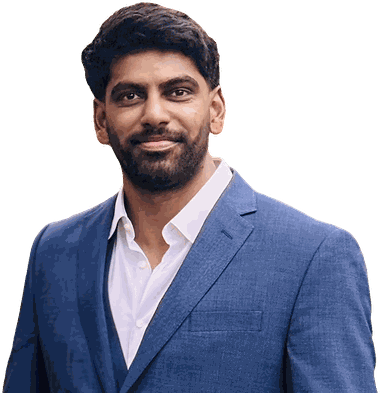
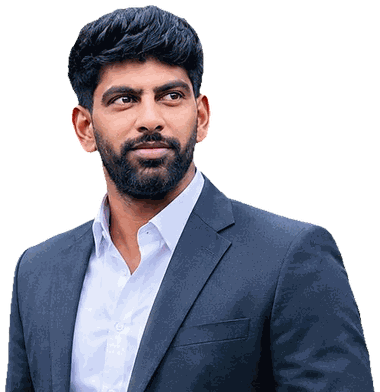
Replace the landing portrait with the full-length studio shot (#183)
* Replace the landing portrait with the full-length studio shot

The new master is a standing shot, not a headshot, so it cannot go through
the same pipeline unchanged - two things had to move.

It gets its own master. `generate_profile_cutout.py` read
`assets/profile-pic-master.jpg`, the same file `generate_profile_pics.py`
crops the circular avatar from, and the two now want opposite framings: the
avatar is a circle filled by a face, the landing portrait is a bust in front
of a painted panel. Pointing the cutout at `assets/profile-portrait-master.jpg`
keeps the JSON-LD `Person` image on the headshot it was cropped for, instead
of quartering its resolution to serve a frame it was never shot for.

It gets a crop. `SOURCE_CROP_BOX` cuts the bust out of the standing figure
before segmentation - before, so birefnet spends its 1024px input on the
hairline rather than on the trouser legs. The cut is placed so the existing
trim still lands on a matte 0.967 as wide as it is tall, which is the ratio
`.home-portrait::before` and the img width/height pair are both written
against; the CSS is untouched as a result.

The cost is resolution, and it is real: the bust window is ~500px of a 1254px
master, against the 1111px the frame-filling headshot carried. The ladder
drops to 380w + 497w rather than upscaling into the old filenames, so a 2x
desktop is served 497 where it would take ~1140. A higher-resolution original
of this shot is the only thing that recovers it.
[…]

diff --git a/frontend/index.html b/frontend/index.html
@@ -164,11 +164,11 @@
   </script>
   <!-- The landing portrait, and the LCP element. imagesrcset/imagesizes repeat
        the <picture> below verbatim: a bare href preloads the 380w file while a
-       2x screen then goes on to fetch the 760w or 1111w one, so the preload
-       costs a round trip instead of saving one. -->
+       wider viewport then goes on to fetch the 497w one, so the preload costs a
+       round trip instead of saving one. -->
   <link rel="preload" href="profile-cutout-380.webp" as="image" type="image/webp"
-    imagesrcset="profile-cutout-380.webp 380w, profile-cutout.webp 760w, profile-cutout-1111.webp 1111w"
-    imagesizes="(width <= 900px) min(72vw, 450px), clamp(375px, 40.5vw, 570px)" />
+    imagesrcset="profile-cutout-380.webp 380w, profile-cutout.webp 497w"
+    imagesizes="(width <= 900px) min(72vw, 450px), clamp(375px, 40.5vw, 450px)" />
   <link rel="preload" href="styles.css" as="style" />
   <link rel="stylesheet" href="styles.css" />
   <link rel="stylesheet" href="./auth-modal.css" />
@@ -522,22 +522,27 @@
                an organic accent swash the silhouette stands in front of - but
                nothing crops the image to it; see the note on that rule.
                The PNG fallback is the `img` src because JPEG cannot carry an
-               alpha channel; the width/height pair is the intrinsic ratio of
-               the sources, and styles.css sets the rendered width. -->
+               alpha channel; the width/height pair is the intrinsic size of
+               the sources, and styles.css sets the rendered width.
+
+               Two widths, topping out at 497 - the master is a full-length
+               shot and the bust window generate_profile_cutout.py crops from
+               it is only that wide, so the ladder ends where the pixels do.
+               The 450px cap in styles.css is set against that: it keeps 1x a
+               downscale, though 2x still asks for ~900w. See the VARIANTS
+               note in that script. -->
           <div class="home-portrait">
             <picture>
               <source
                 srcset="
                   profile-cutout-380.webp 380w,
-                  profile-cutout.webp 760w,
-                  profile-cutout-1111.webp 1111w"
-                sizes="(width <= 900px) min(72vw, 450px), clamp(375px, 40.5vw, 570px)" type="image/webp" />
+                  profile-cutout.webp 497w"
+                sizes="(width <= 900px) min(72vw, 450px), clamp(375px, 40.5vw, 450px)" type="image/webp" />
               <img src="profile-cutout-380.png" srcset="
                   profile-cutout-380.png 380w,
-                  profile-cutout.png 760w,
-                  profile-cutout-1111.png 1111w"
-                sizes="(width <= 900px) min(72vw, 450px), clamp(375px, 40.5vw, 570px)"
-                alt="" class="home-portrait-img" width="760" height="786" fetchpriority="high"
+                  profile-cutout.png 497w"
+                sizes="(width <= 900px) min(72vw, 450px), clamp(375px, 40.5vw, 450px)"
+                alt="" class="home-portrait-img" width="497" height="513" fetchpriority="high"
                 loading="eager" />
             </picture>
           </div>

diff --git a/frontend/styles.css b/frontend/styles.css
@@ -2537,10 +2537,29 @@ body:has(main > #ai.active) .chat-widget:not(.is-visible) {
      Half again as wide as that step: the two-column landing view has the
      vertical room for it at every desktop height tested down to 700px, and a
      cutout this size is the page's subject rather than an illustration beside
-     the name. 570px against the intro column's ~390px is the whole point -
+     the name. The cap against the intro column's ~390px is the whole point -
      the portrait leads and the type answers it. The phone cap below does NOT
-     scale with this; see the note there. */
-  width: clamp(375px, 40.5vw, 570px);
+     scale with this; see the note there.
+
+     ── Why the cap is 450 and not 570 ──
+     It is the source, not the layout. The cap was 570px while the master was
+     a frame-filling headshot that mattes to 1111px; the master is a
+     full-length shot now, and the bust `generate_profile_cutout.py` crops out
+     of it is 497px wide - all there is. At 570 the browser upscaled on every
+     screen, including 1x. 450 puts the widest render back UNDER the file, so
+     1x is a true downscale again and every fractional DPR asks for less than
+     it did.
+
+     It does not make the portrait retina-sharp, and no cap here can: 2x at
+     450px still wants 900w against 497. Only a higher-resolution original of
+     the master fixes that. What this buys is the 1x case and a smaller
+     deficit everywhere else.
+
+     450 is also now the ONE ceiling the portrait has anywhere - the phone
+     block below already capped at `min(72vw, 450px)`, so the two agree by
+     arithmetic rather than by coincidence. The portrait still leads at this
+     size; it leads by less. */
+  width: clamp(375px, 40.5vw, 450px);
 }
 
 /* ── No wash behind the silhouette ──

diff --git a/scripts/generate_profile_cutout.py b/scripts/generate_profile_cutout.py
@@ -1,26 +1,34 @@
 """
 Profile Cutout Generator Script
 
-Builds the free-form landing portrait: the same master headshot as
-`generate_profile_pics.py`, but background-removed so the page's own gradient
-and plexus canvas show through the silhouette instead of a photographic square
-clipped to a circle.
+Builds the free-form landing portrait: a studio shot background-removed so the
+page's own gradient and plexus canvas show through the silhouette instead of a
+photographic square clipped to a circle.
+
+It reads its OWN master, `assets/profile-portrait-master.jpg`, not the headshot
+`generate_profile_pics.py` uses. The two want opposite framings and no single
+file serves both: the avatar is a circle that has to be filled by a face, so its
+master is cropped tight, while the landing portrait is a bust standing in front
+of a painted panel and needs the shoulders and the jacket the circle would throw
+away. Replacing either master is therefore a change to one image on the page,
+not to both - which is the point of keeping them apart.
 
 Two stages, because they have very different dependency costs:
 
-  1. **Matting** turns `assets/profile-pic-master.jpg` into
-     `assets/profile-cutout-master.png` - full resolution, straight alpha,
-     trimmed to the silhouette. Needs `rembg`, which pulls onnxruntime and
-     downloads a ~1 GB model on first run. Runs only when the matte is missing
-     or `--rebuild-matte` is passed.
+  1. **Matting** turns `assets/profile-portrait-master.jpg` into
+     `assets/profile-cutout-master.png` - straight alpha, trimmed to the
+     silhouette. Needs `rembg`, which pulls onnxruntime and downloads a ~1 GB
+     model on first run. Runs only when the matte is missing or
+     `--rebuild-matte` is passed.
   2. **Encoding** turns that matte into the four `frontend/profile-cutout*`
      files. Needs nothing but Pillow, so a contributor who only wants to
      re-tune quality or add a width never pays for stage 1.
 
-Both masters live outside `frontend/` for the reason the headshot master does:
-the deploy is an `rsync frontend/`, so nothing kept in `assets/` is published.
+Both the master and the matte live outside `frontend/` for the reason the
+headshot master does: the deploy is an `rsync frontend/`, so nothing kept in
+`assets/` is published.
 
-Run after replacing the master headshot:
+Run after replacing the master:
 
     pip install "rembg[cpu]"          # stage 1 only
     python scripts/generate_profile_cutout.py --rebuild-matte
@@ -38,7 +46,7 @@ import numpy as np
 from PIL import Image, ImageFilter
 
 ROOT_DIR = Path(__file__).parent.parent
-SOURCE_IMAGE_PATH = ROOT_DIR / "assets" / "profile-pic-master.jpg"
+SOURCE_IMAGE_PATH = ROOT_DIR / "assets" / "profile-portrait-master.jpg"
 MATTE_PATH = ROOT_DIR / "assets" / "profile-cutout-master.png"
 FRONTEND_DIR = ROOT_DIR / "frontend"
 
@@ -57,21 +65,53 @@ INTERIOR_ALPHA = 0.98
 # from the interior; between here and INTERIOR_ALPHA the two blend.
 CONTAMINATED_ALPHA = 0.55
 
+# ── The bust window on the master ──
+# The master is a full-length standing shot; the landing portrait is a bust. It
+# has to be, and not by preference: `.home-portrait` renders at up to 450px
+# inside a hero with almost no vertical slack, so a frame carrying the figure
+# down to the knees would spend that width on trouser leg and hand the head
+# roughly half the size the layout is built around.
+#
+# Only the BOTTOM edge here is a composition decision - where to cut the torso.
+# The other three are deliberately loose, because the trim at the end of
+# `build_matte` finds the true silhouette edge and adds MARGIN_PX to it: these
+# just have to clear the subject. Which is also why the cut is worth stating
+# exactly. At this line the trimmed matte comes out 0.967 as wide as it is tall,
+# and that ratio is load-bearing in two other files - the `width`/`height` pair
+# on `.home-portrait-img` in `index.html`, and the brush panel's `top`, `left`
+# and `aspect-ratio` in the HOME HERO region of `styles.css`, all of which are
+# percentages of a box this shape. Move the cut and re-check both.
+#
+# Cropping BEFORE segmentation rather than after is the other half of it:
+# birefnet resamples whatever it is handed to 1024x1024, so giving it the bust
+# alone spends the model's entire input on the hairline instead of on the
+# trousers. It also puts the torso against the frame edge the way the old
+# headshot master had it, which is what MARGIN_PX below assumes.
+SOURCE_CROP_BOX = (372, 164, 947, 678)
+
 # The matte keeps this much transparent margin on the left, right and top. The
-# bottom is deliberately NOT padded: the chest is cut by the master's own frame,
+# bottom is deliberately NOT padded: the torso is cut by SOURCE_CROP_BOX above,
 # so the silhouette has to run flush to the bottom edge for the CSS to bleed it
 # off the container rather than float a severed torso.
 MARGIN_PX = 6
 
-# 380 and 760 are the 1x and 2x of the portrait's old 380px cap. 1111 is the
-# matte's own width - the landing portrait renders up to 570px now, so a 2x
-# screen wants 1140w and there is no more master than this. Asking for more
-# would upscale, which is why the ladder stops on an odd number rather than a
-# round one.
+# Two rungs, and the top one is an odd number because it is not a choice: 497 is
+# the matte's own width, and the ladder stops there because anything past it is
+# an upscale wearing a bigger filename. The bust window is a ~500px crop of a
+# 1254px master, so that is genuinely all the portrait there is.
+#
+# It does not reach 2x. `.home-portrait` caps at 450 CSS px - lowered from 570
+# for exactly this reason, so that the widest render is a downscale of this file
+# rather than an upscale of it - and a retina desktop there still asks for ~900w
+# against 497. The previous master, a frame-filling headshot, mattes to 1111 and
+# covered it. A higher-resolution original of this shot is the only thing that
+# closes the gap; nothing in this script can, and generating a 900w file from a
+# 497w matte would only move the blur from the browser to here while multiplying
+# the bytes. 380 stays as the lower rung: it is the LCP file `index.html`
+# preloads and the build precaches, and it is still a true downscale.
 VARIANTS = [
     {"width": 380, "png_name": "profile-cutout-380.png", "webp_name": "profile-cutout-380.webp"},
-    {"width": 760, "png_name": "profile-cutout.png", "webp_name": "profile-cutout.webp"},
-    {"width": 1111, "png_name": "profile-cutout-1111.png", "webp_name": "profile-cutout-1111.webp"},
+    {"width": 497, "png_name": "profile-cutout.png", "webp_name": "profile-cutout.webp"},
 ]
 
 # Lossy WebP with alpha. 84 is where the lapel weave stops visibly blocking on
@@ -90,7 +130,7 @@ UNSHARP = ImageFilter.UnsharpMask(radius=0.8, percent=60, threshold=3)
 
 
 def build_matte():
-    """Segment the master headshot and write the trimmed RGBA matte."""
+    """Crop the master to the bust, segment it, and write the trimmed RGBA matte."""
     try:
         from rembg import new_session, remove
     except ImportError:
@@ -104,7 +144,8 @@ def build_matte():
     print(f"Opening source image: {SOURCE_IMAGE_PATH}")
     with Image.open(SOURCE_IMAGE_PATH) as img:
         print(f"Source size: {img.size}, mode: {img.mode}, format: {img.format}")
-        source = img.convert("RGB")
+        source = img.convert("RGB").crop(SOURCE_CROP_BOX)
+    print(f"Cropped to the bust window {SOURCE_CROP_BOX}: {source.size}")
 
     print(f"Segmenting with {REMBG_MODEL} (first run downloads the model)...")
     cut = remove(source, session=new_session(REMBG_MODEL), post_process_mask=True)
@@ -113,8 +154,8 @@ def build_matte():
     rgb, alpha = arr[:, :, :3], arr[:, :, 3] / 255.0
 
     # ── Colour decontamination ──
-    # The master was shot against grass and a pond, so every pixel the lens and
-    # the JPEG encoder smeared across the silhouette carries some of that green.
+    # The master was shot outdoors against trees, so every pixel the lens and the
+    # JPEG encoder smeared across the silhouette carries some of that green.
     # Straight alpha keeps those RGB values, and they surface as a lime rim the
     # moment the cutout is composited onto any other ground. Rewriting each
     # partial pixel with the colour of the nearest solidly-interior pixel makes

diff --git a/README.md b/README.md
@@ -91,7 +91,7 @@ renderer.
 ├── scripts/                     # build.mjs, CSP hash check, docs drift check, font vendoring, image helpers
 │   └── tests/                   # Node suites for the build's caching contract
 ├── docs/                        # Documentation set (see index below)
-├── assets/                      # Generator sources (icon, headshot, paint swipe) — deliberately outside the published web root
+├── assets/                      # Generator sources (icon, headshot, landing portrait, paint swipe) — deliberately outside the published web root
 ├── .github/workflows/deploy.yml # CI/CD pipeline
 └── AGENTS.md                    # Single source of truth for AI-agent operating rules
 ```
@@ -291,7 +291,7 @@ All scripts live in `scripts/` and are maintenance steps, not part of the build.
 | `optimize_images.py` | Recompress icons/profile images, with timestamped backups under `backups/` | Pillow |
 | `verify_images.py` | Report dimensions and sizes of the optimised images | Pillow |
 | `generate_profile_pics.py` | Regenerate 160/360/725-wide JPEG + WebP profile variants | Pillow |
-| `generate_profile_cutout.py` | Regenerate the background-removed landing portrait (380/760-wide PNG + WebP). Re-encodes from the committed matte by default; `--rebuild-matte` re-runs segmentation | Pillow; `rembg[cpu]` and a ~1 GB model download for `--rebuild-matte` |
+| `generate_profile_cutout.py` | Regenerate the background-removed landing portrait (380/497-wide PNG + WebP) by cropping a bust out of `assets/profile-portrait-master.jpg`. Re-encodes from the committed matte by default; `--rebuild-matte` re-runs the crop and segmentation | Pillow; `rembg[cpu]` and a ~1 GB model download for `--rebuild-matte` |
 | `generate_brush_backdrop.py` | Recompose the landing portrait's painted panel — one photographed swipe in `assets/brush-stroke-master.jpg`, laid down eleven times as a luminance mask | Pillow |
 | `generate_social_previews.py` | Re-render the three 1200x630 Open Graph cards from `scripts/social-previews/` | Pillow, a Chromium or Chrome binary |
 | `generate_launch_images.py` | Regenerate the maskable PWA icon and the 17 iOS `apple-touch-startup-image` bitmaps | Pillow |

diff --git a/docs/FRONTEND.md b/docs/FRONTEND.md
@@ -396,7 +396,7 @@ missing, so a failed update is visible but not dangerous.
 
 | Path | Notes |
 | :--- | :--- |
-| `profile-cutout-380.{png,webp}`, `profile-cutout.{png,webp}` | The landing portrait, background-removed so the page's own gradient and plexus canvas show through the silhouette. Two widths × two formats, from `scripts/generate_profile_cutout.py`. PNG rather than JPEG because the fallback has to carry an alpha channel. `profile-cutout-380.webp` is the LCP image: `index.html` preloads it and the build precaches it, and `scripts/tests/build.test.js` asserts those two stay the same file |
+| `profile-cutout-380.{png,webp}`, `profile-cutout.{png,webp}` | The landing portrait, background-removed so the page's own gradient and plexus canvas show through the silhouette. Two widths × two formats, from `scripts/generate_profile_cutout.py`, which crops the bust out of a full-length master — 497 is that crop's own width, so the ladder stops short of the ~1140w a 2x desktop would ask for. PNG rather than JPEG because the fallback has to carry an alpha channel. `profile-cutout-380.webp` is the LCP image: `index.html` preloads it and the build precaches it, and `scripts/tests/build.test.js` asserts those two stay the same file |
 | `brush-backdrop.webp` | The painted panel the landing portrait stands in front of, used by `.home-portrait::before` as a *luminance mask* over a solid `--accent-fill` - it carries the shape, the theme carries the colour, so the customiser's accent paints it with nothing to re-tune. **Generated** by `scripts/generate_brush_backdrop.py` from the one photographed swipe in `assets/brush-stroke-master.jpg` - see [The painted panel](#the-painted-panel) |
 | `profile-pic-160.{jpg,webp}`, `profile-pic-360.{jpg,webp}`, `profile-pic.{jpeg,webp}` | Three widths × two formats of the un-cut headshot, from `scripts/generate_profile_pics.py`. Only `profile-pic.jpeg` is still referenced — by the JSON-LD `Person` image — since the landing view moved to the cutout above |
 | `android-chrome-192x192.png`, `android-chrome-512x512.png` | PWA icons, generated from `assets/master-icon.png` |

diff --git a/docs/ARCHITECTURE.md b/docs/ARCHITECTURE.md
@@ -155,9 +155,9 @@ domain logic for auth, Bedrock, chat history, ingest, breach checks and email.
 | Path | Role |
 | :--- | :--- |
 | `tests/backend/` | pytest suites — `unit/` (6 files) and `integration/` (6 files) |
-| `scripts/` | `build.mjs`, `check_csp_hashes.py`, `vendor_fonts.py`, seven Pillow image helpers (`generate_social_previews.py` renders the cards in `scripts/social-previews/`; `generate_launch_images.py` renders the maskable icon and the iOS launch screens; `generate_brush_backdrop.py` composes the landing portrait's painted panel from one photographed swipe; `generate_profile_cutout.py` mattes the landing portrait, and is the only one with a dependency beyond Pillow) |
+| `scripts/` | `build.mjs`, `check_csp_hashes.py`, `vendor_fonts.py`, seven Pillow image helpers (`generate_social_previews.py` renders the cards in `scripts/social-previews/`; `generate_launch_images.py` renders the maskable icon and the iOS launch screens; `generate_brush_backdrop.py` composes the landing portrait's painted panel from one photographed swipe; `generate_profile_cutout.py` crops and mattes the landing portrait, and is the only one with a dependency beyond Pillow) |
 | `docs/` | This documentation set |
-| `assets/` | `master-icon.png`, `profile-pic-master.jpg` and `profile-cutout-master.png` — kept outside `frontend/` so the deploy never publishes them |
+| `assets/` | `master-icon.png`, `brush-stroke-master.jpg`, and two portrait masters — `profile-pic-master.jpg` (the tight headshot behind the `profile-pic*` variants) and `profile-portrait-master.jpg` (the full-length shot the landing cutout crops its bust from), plus the `profile-cutout-master.png` matte. All kept outside `frontend/` so the deploy never publishes them |
 | `.github/workflows/` | `deploy.yml` — the whole CI/CD pipeline |
 | `.claude/`, `.codex/`, `.amazonq/`, `.antigravity/` | Per-tool agent config; all deprecated stubs pointing at `AGENTS.md` |
 

diff --git a/AGENTS.md b/AGENTS.md
@@ -64,9 +64,9 @@ these files the number here has to move with it.
 
 | File | Lines | ~Tokens | How to navigate instead |
 | :--- | ---: | ---: | :--- |
-| `frontend/styles.css` | 11,411 | ~83,000 | `grep -n '#region' frontend/styles.css` returns a 27-entry map with live line numbers (~500 tokens). Then `sed -n 'START,ENDp'`. |
+| `frontend/styles.css` | 11,430 | ~83,000 | `grep -n '#region' frontend/styles.css` returns a 27-entry map with live line numbers (~500 tokens). Then `sed -n 'START,ENDp'`. |
 | `package-lock.json` | 3,453 | ~32,500 | Never read. `package.json` lists every direct dep in 25 lines. |
-| `frontend/index.html` | 2,203 | ~34,000 | `grep -n '<section id=' frontend/index.html` for the 8-section map. |
+| `frontend/index.html` | 2,208 | ~34,000 | `grep -n '<section id=' frontend/index.html` for the 8-section map. |
 | `frontend/js/chat.js` | 1,851 | ~19,000 | One large `initChat()` from line 57; almost nothing is top-level. Map it with `grep -nE '^\s{2,6}(async )?function \w+' frontend/js/chat.js` (37 hits). |
 | `frontend/js/auth-ui.js` | 1,189 | ~14,500 | Same shape — one `initAuthUI()`. Use `grep -nE '^\s{2,6}(async )?function \w+' frontend/js/auth-ui.js` (10 hits). |
 | `frontend/three-bg.js` | 1,559 | ~14,000 | Animated plexus background. Despite the name it is plain 2D canvas — there is no Three.js in this repo. Read `docs/ARCHITECTURE.md` first to decide if you need it at all. |
